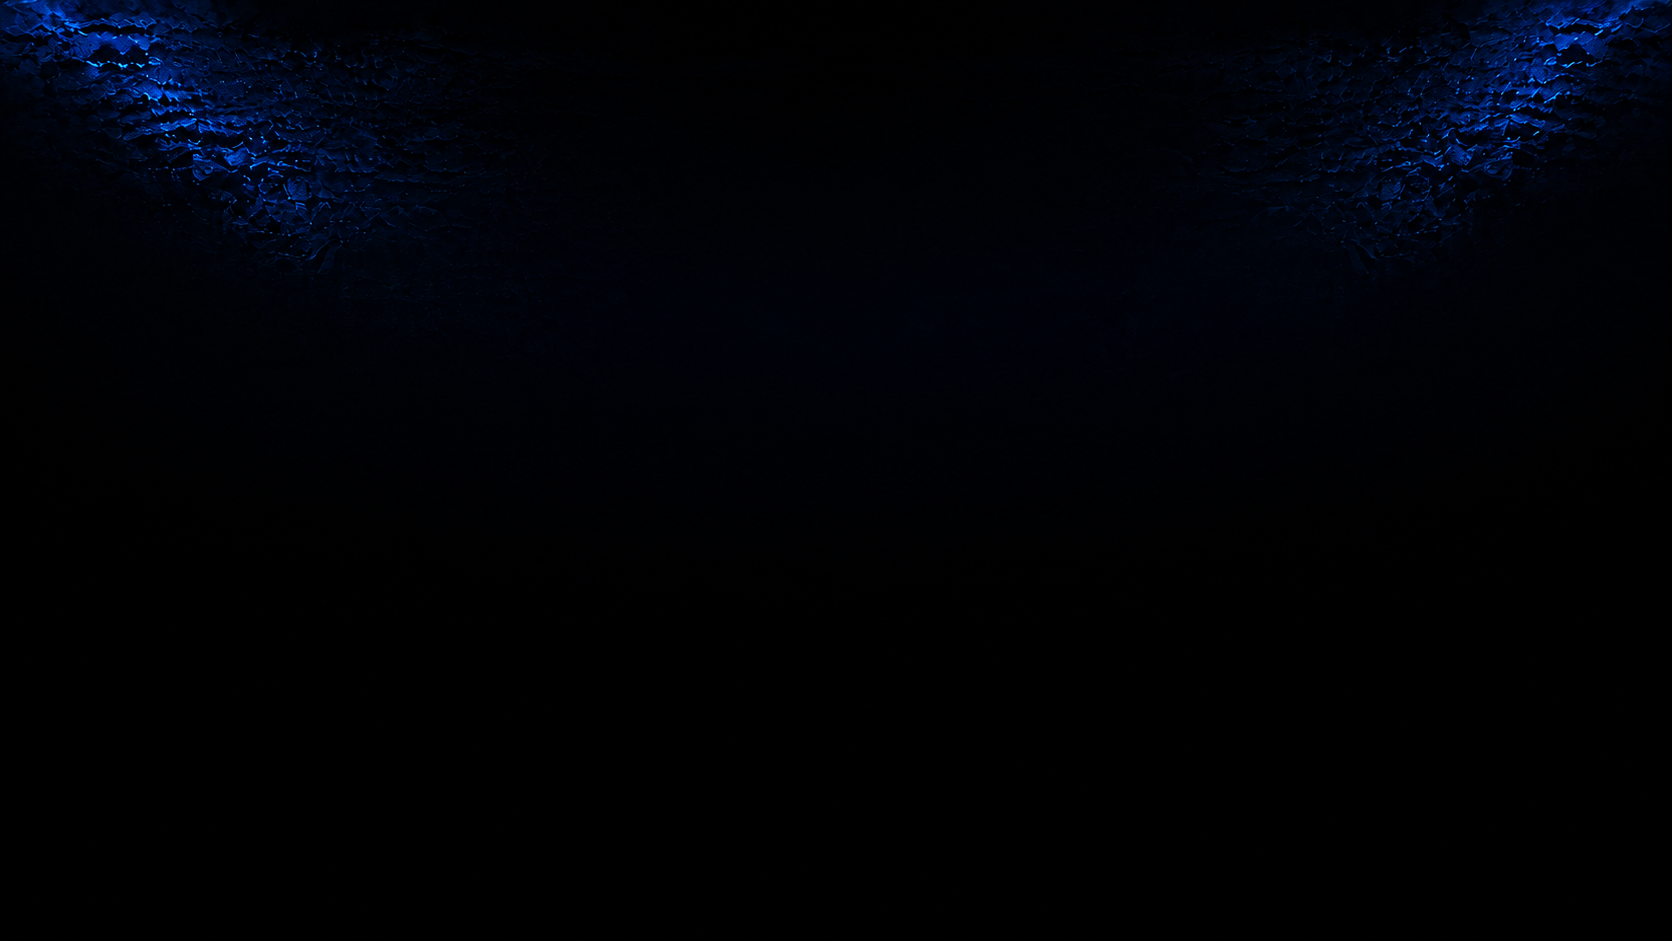
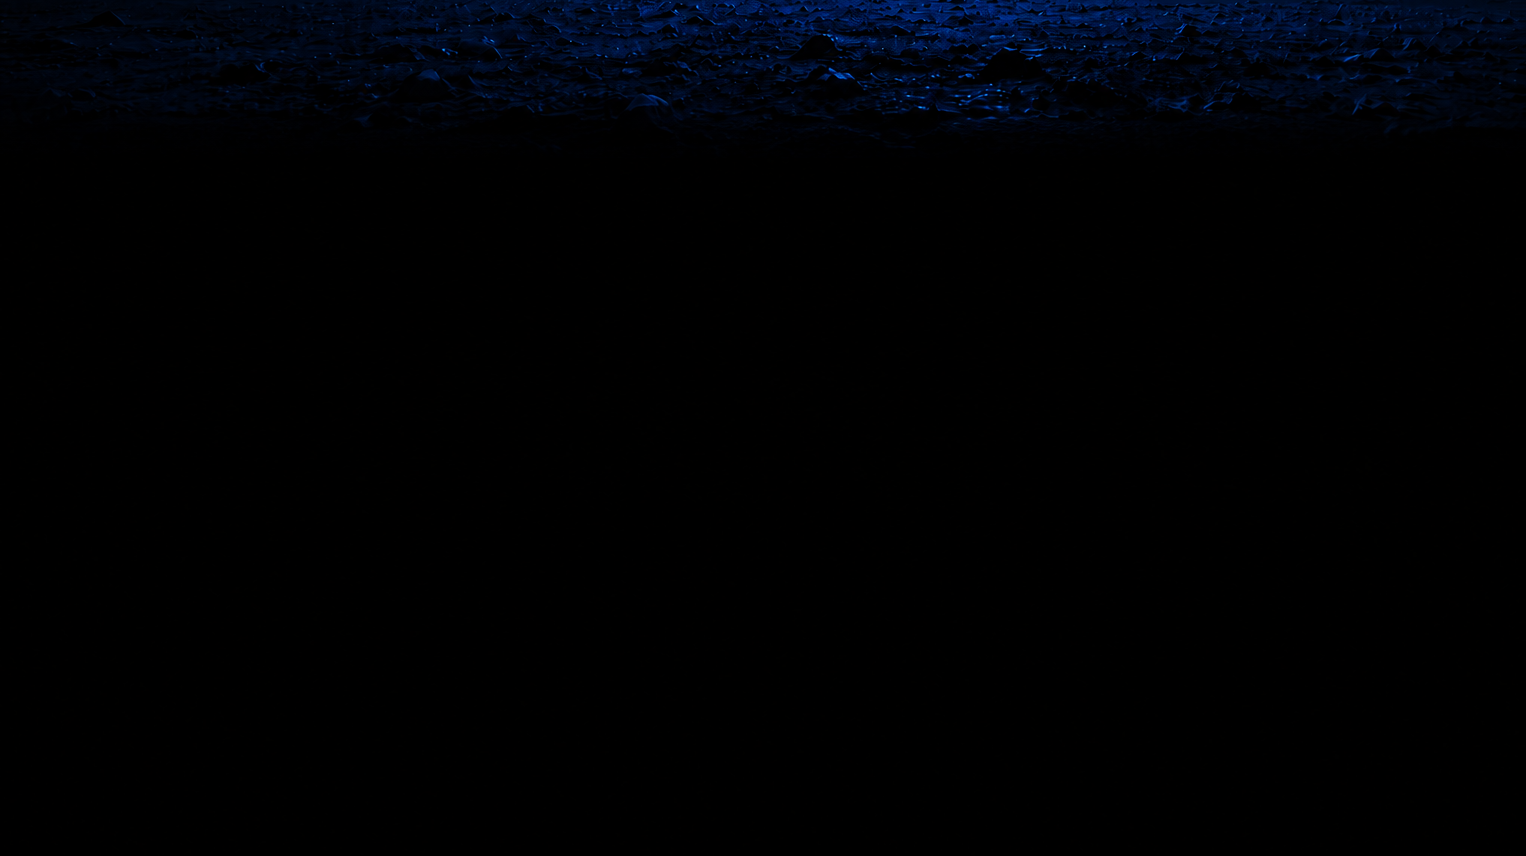
New background image

Changed region(s): [[0.0, 0.0, 1.0, 0.2734]]

diff --git a/src/components/krevo/HeroPyramid.tsx b/src/components/krevo/HeroPyramid.tsx
@@ -11,11 +11,11 @@ type HeroPyramidProps = {
 };
 
 /** Intrinsic size of piramida-blue.png. */
-const IMG_W = 1672;
-const IMG_H = 941;
+const IMG_W = 1690;
+const IMG_H = 945;
 /** Pyramid apex in normalized image coordinates. */
-const TIP_NX_IMG = 0.76;
-const TIP_NY_IMG = 0.48;
+const TIP_NX_IMG = 0.732;
+const TIP_NY_IMG = 0.444;
 
 const LASER_DELAY_MS = 1500;
 const LASER_GROW_MS = 1200;
